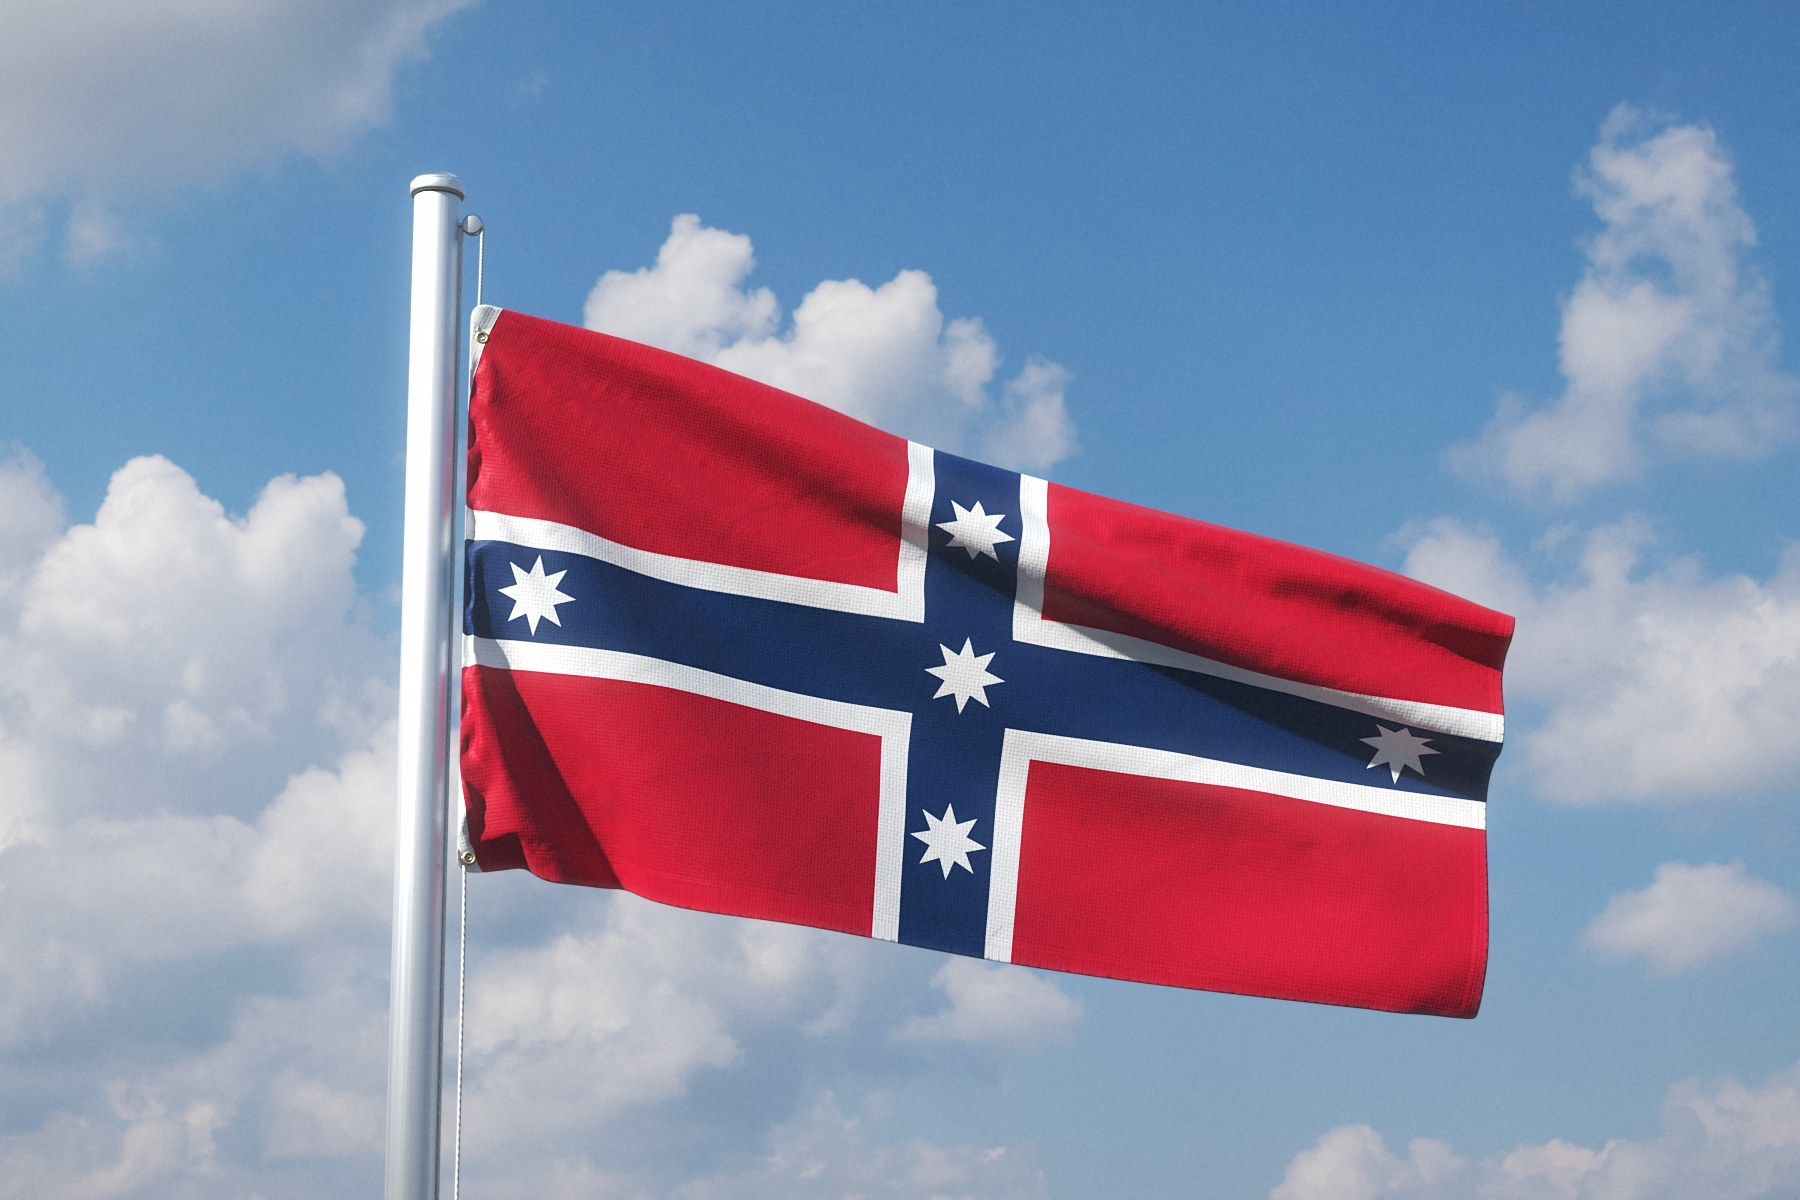
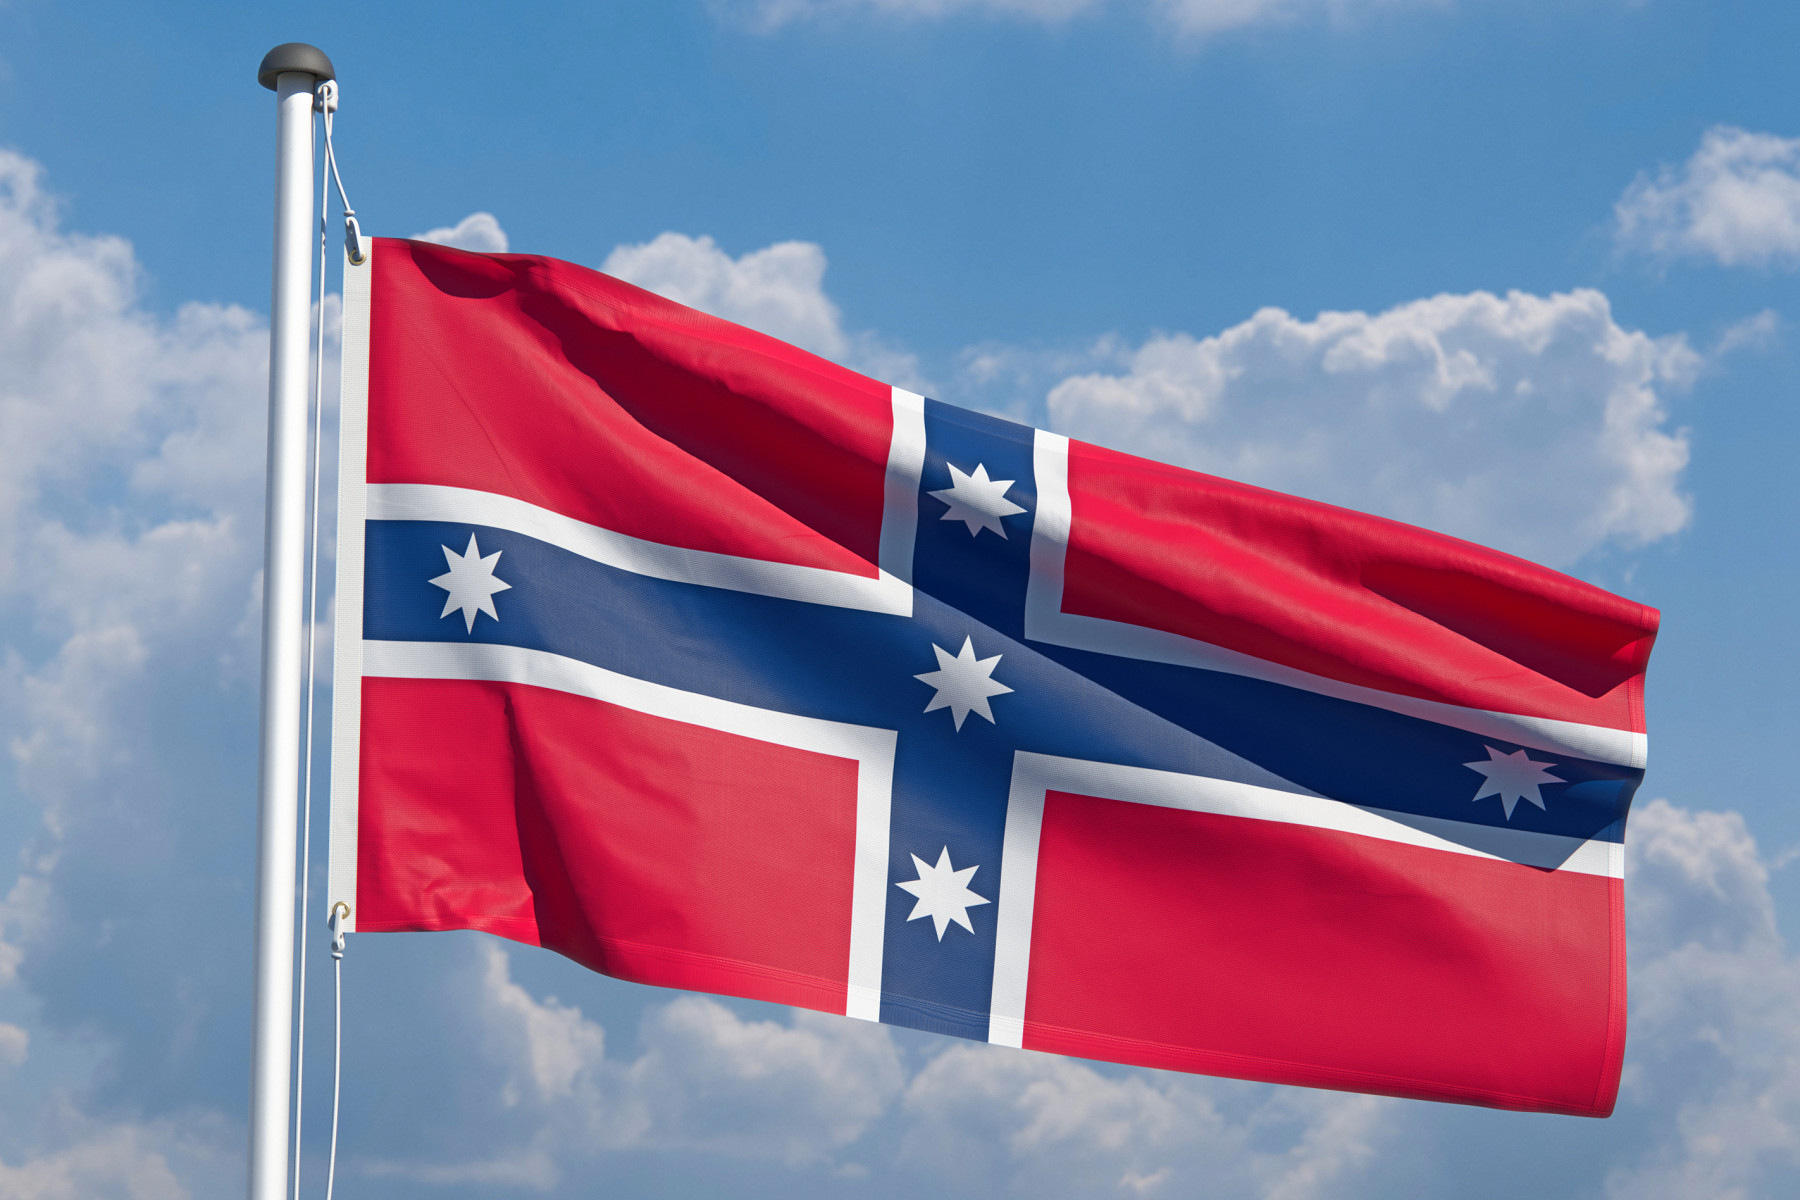
Mockups: flagpole rebuilt from an Australian residential kit
Both mockups get a 50 mm satin anodised pole, a dark cast dome cap, a white nylon
fairlead, white braided halyard and white plastic clips through the eyelets. The white
heading now runs straight down the full hoist. Last edited dates set to 25 November 2026.

Claude-Session: https://claude.ai/code/session_01MtQSh5jLNCdAYHA4EUYwqA

diff --git a/index.html b/index.html
@@ -387,7 +387,7 @@ Union Jack.</p>
     <div class="foot-meta">
       <p>Brodie O&rsquo;Dunn, 2026 &middot; <a href="mailto:brodie2015@icloud.com">brodie2015@icloud.com</a></p>
       <p>Independent proposal. Not endorsed by the Government of Victoria or Victoria Police.</p>
-      <p>Free to use, copy and change. Last edited 24 November 2026.</p>
+      <p>Free to use, copy and change. Last edited 25 November 2026.</p>
     </div>
   </div>
 </footer>

diff --git a/star.html b/star.html
@@ -297,7 +297,7 @@ points.</p>
     <div class="foot-meta">
       <p>Brodie O&rsquo;Dunn, 2026 &middot; <a href="mailto:brodie2015@icloud.com">brodie2015@icloud.com</a></p>
       <p>Independent proposal. Not endorsed by the Government of Victoria.</p>
-      <p>&copy; 2026 Brodie O&rsquo;Dunn. Last edited 24 November 2026.</p>
+      <p>&copy; 2026 Brodie O&rsquo;Dunn. Last edited 25 November 2026.</p>
     </div>
   </div>
 </footer>
